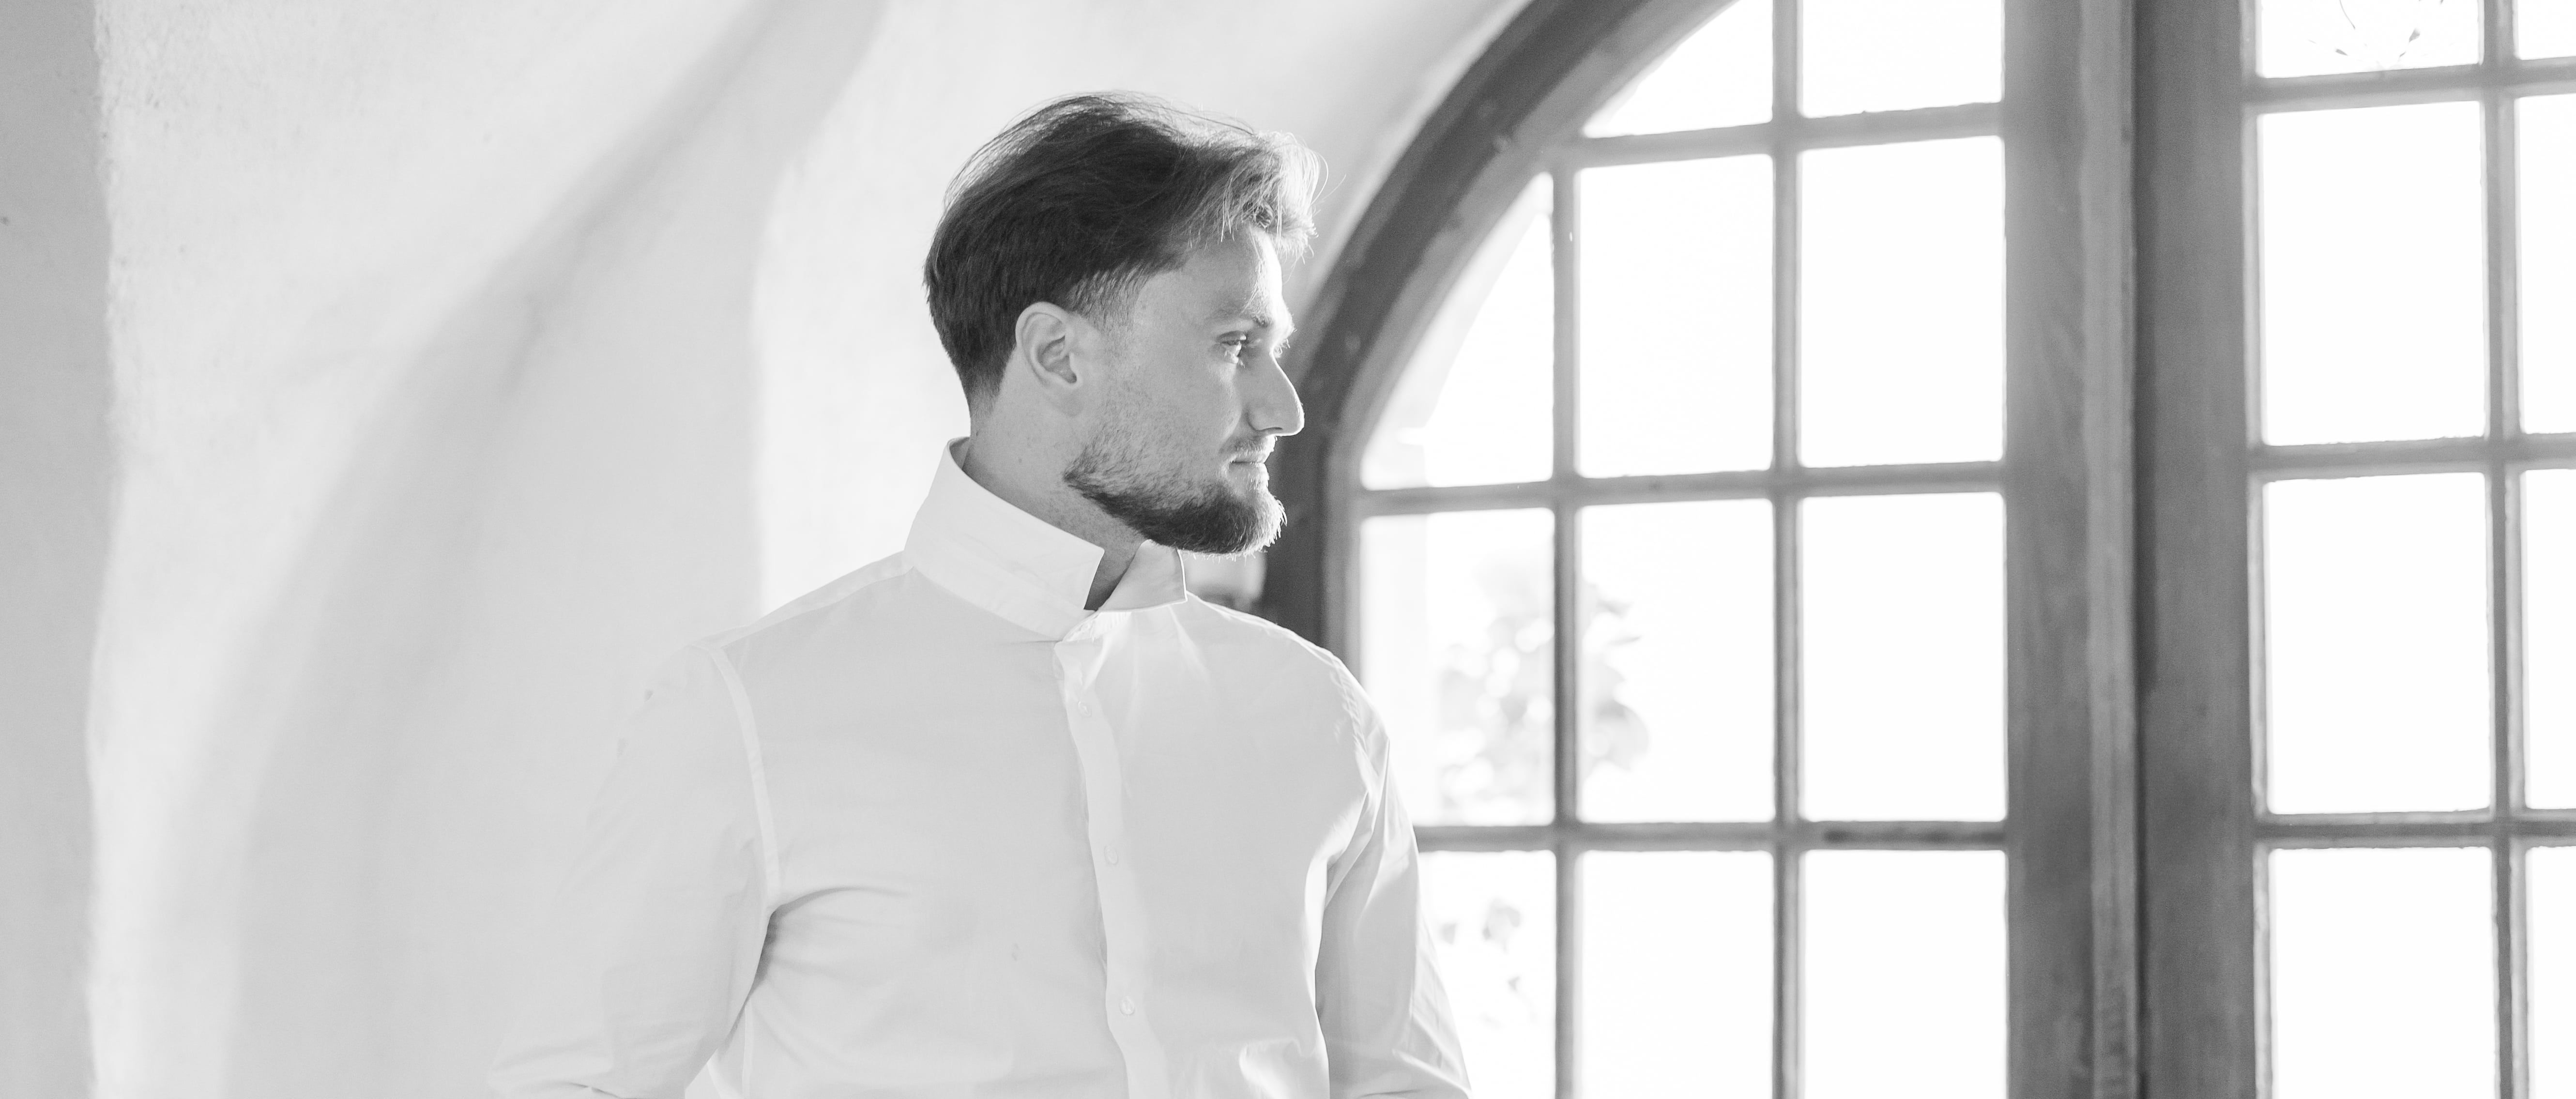
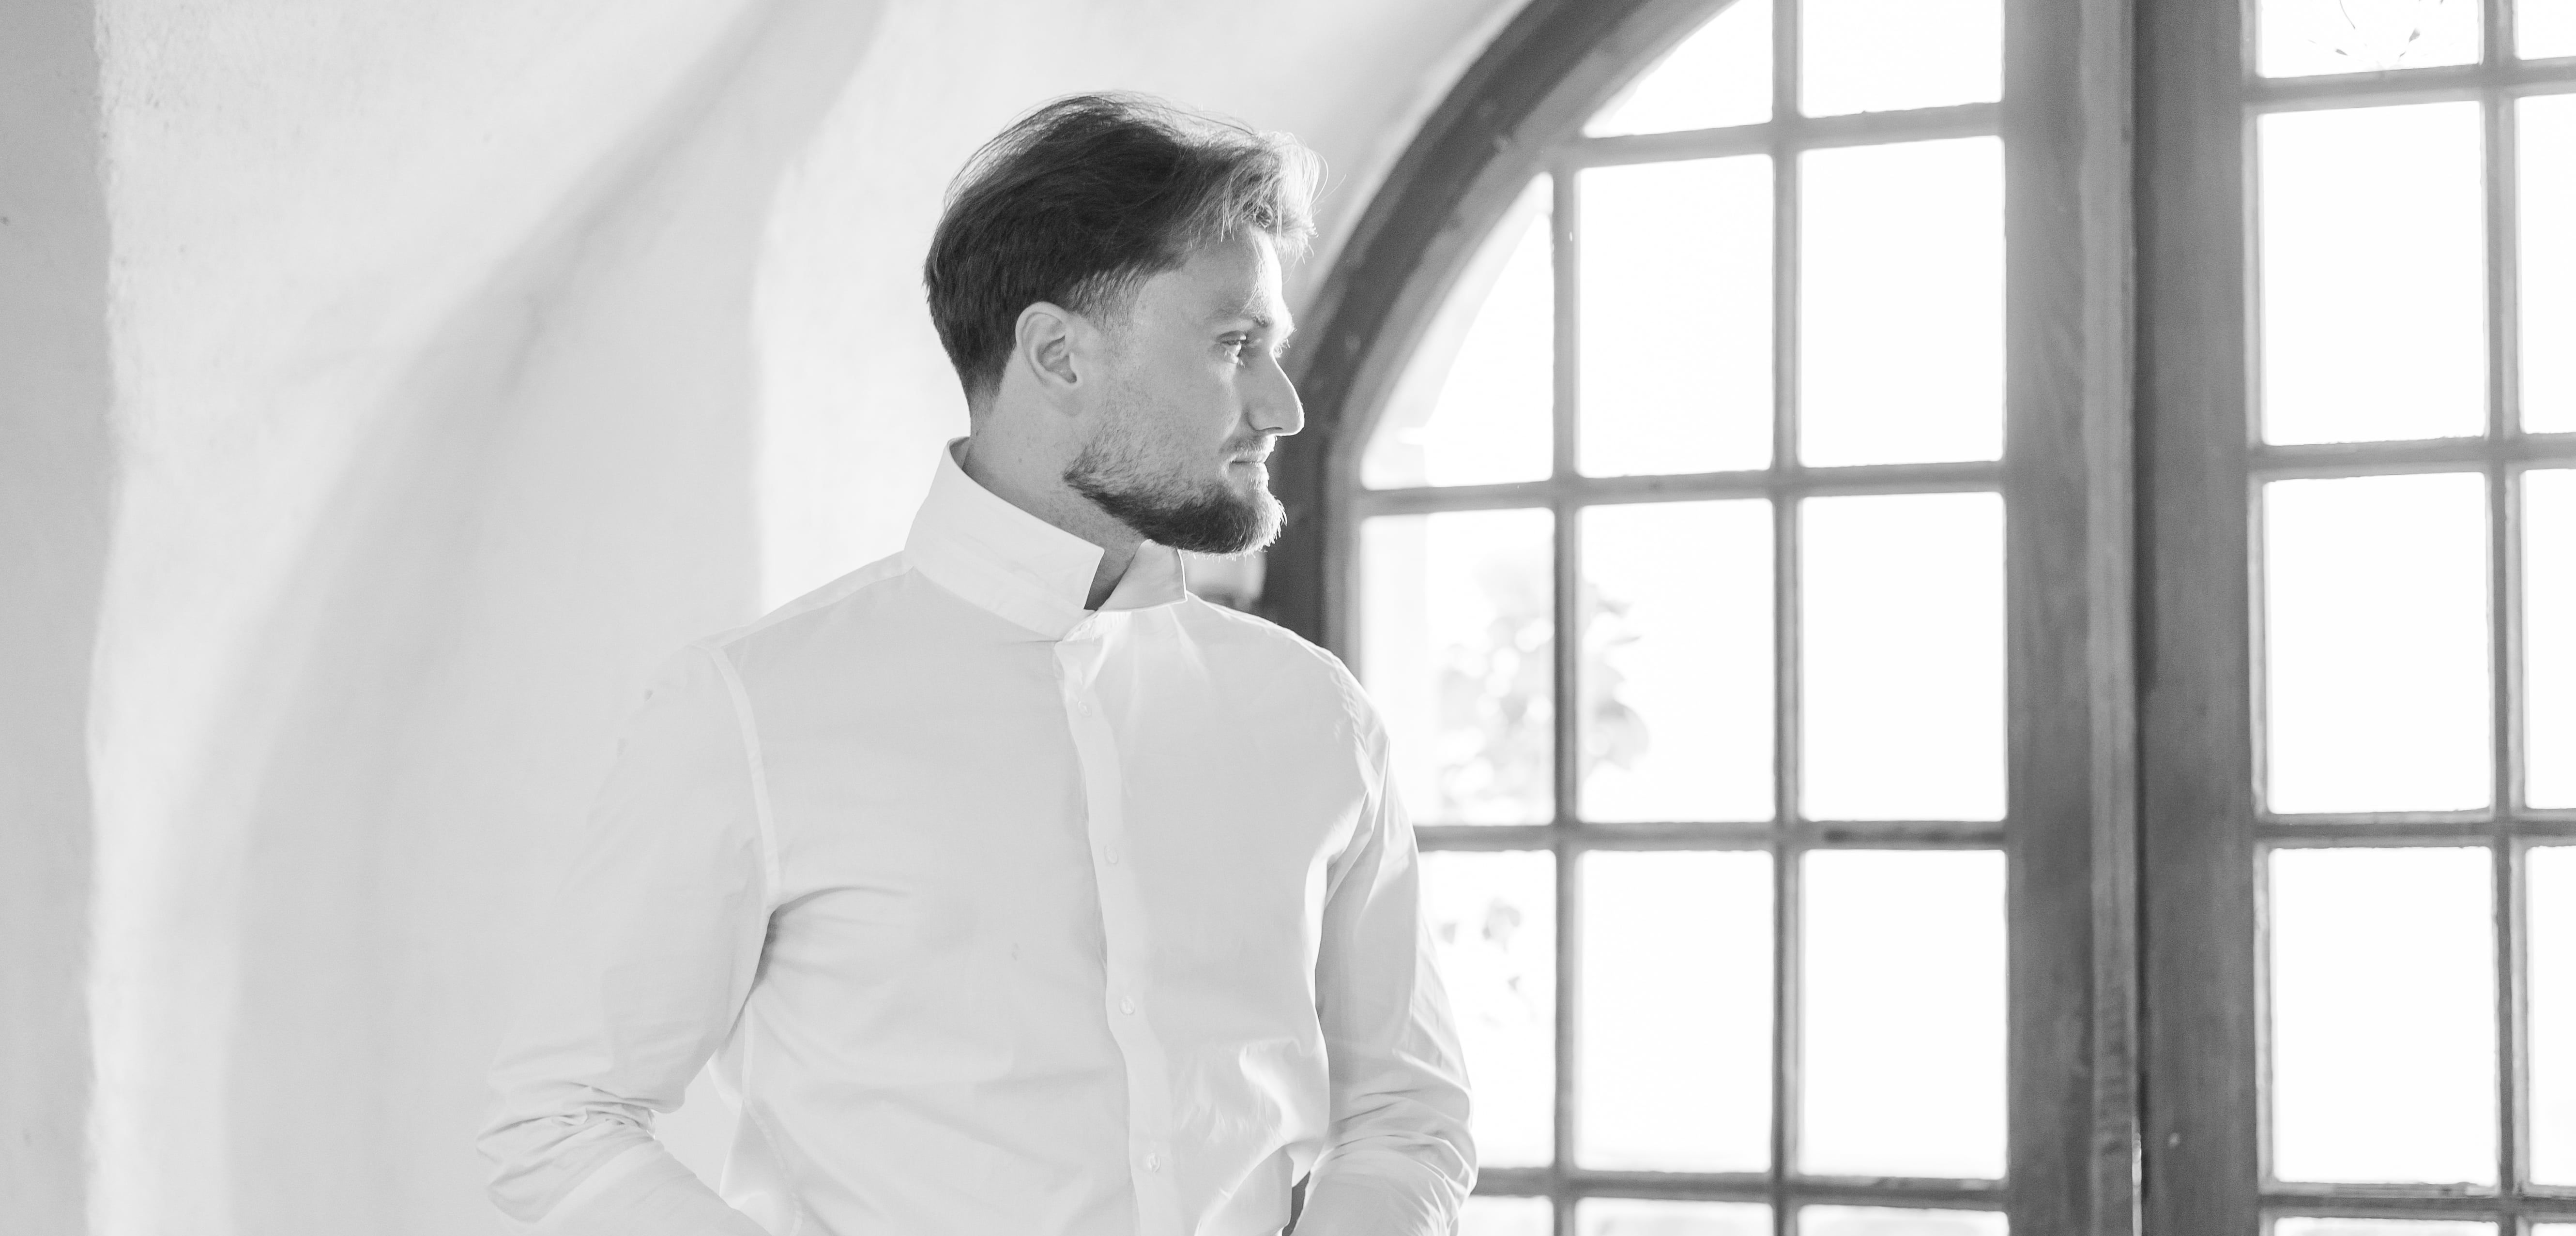
fix(team): photo Christopher dézoomée — top 72% au lieu de 64%
Crop précédent trop serré sur la tête : le ratio 2.34:1 faisait
prendre au sujet ~80 % du carré visible.

Re-crop à 72 % du haut → 5321×2554 (ratio 2.08:1). Le sujet
prend maintenant ~70 % du carré, plus d'air autour, pas un
plan tellement en gros sur la tête. Toujours aucune main/
ceinture visible — la limite à 2554 px reste au-dessus du
début de la zone hands-at-belt (vers y=2400).

Cache-bust ?v=3.

diff --git a/app/(frontend)/[locale]/team/page.tsx b/app/(frontend)/[locale]/team/page.tsx
@@ -89,7 +89,7 @@ export default async function TeamPage({ params }: Args) {
         {members.map((member, idx) => {
           // Version suffix busts Next/Image's optimised cache when the source
           // file is recropped without renaming. Bump on every photo update.
-          const photo = `/team/${member.photoSlug}.jpg?v=2`;
+          const photo = `/team/${member.photoSlug}.jpg?v=3`;
           const isOdd = idx % 2 === 1;
           return (
             <Container key={member.id}>